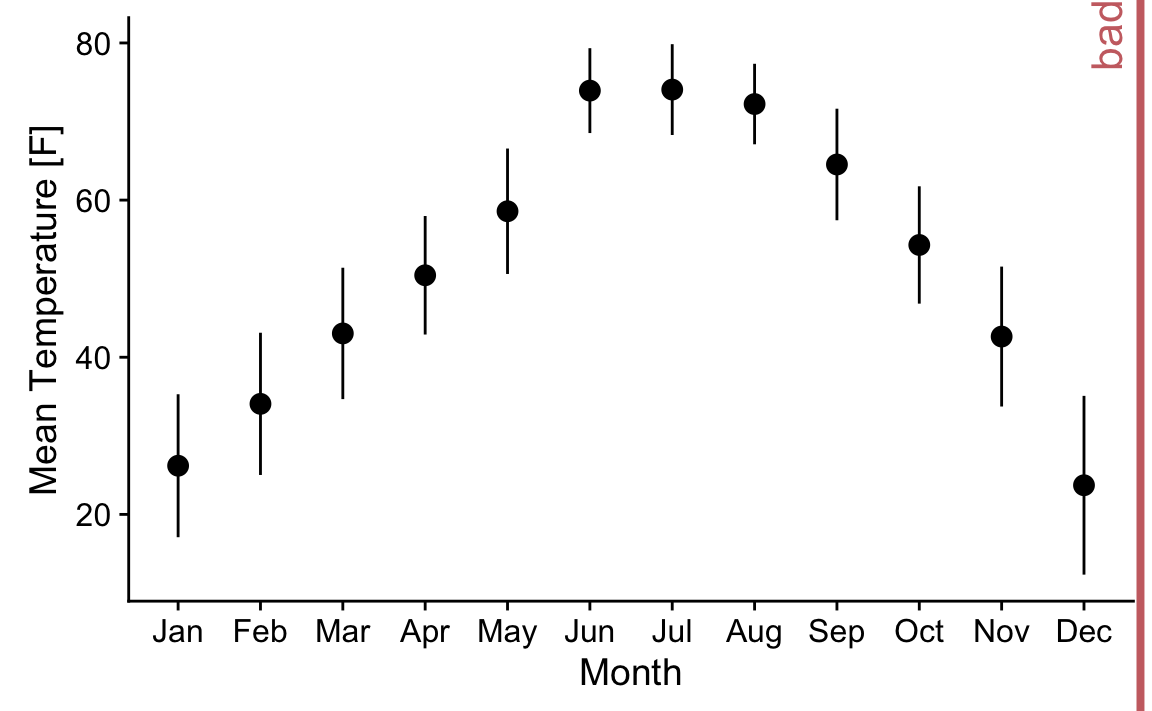
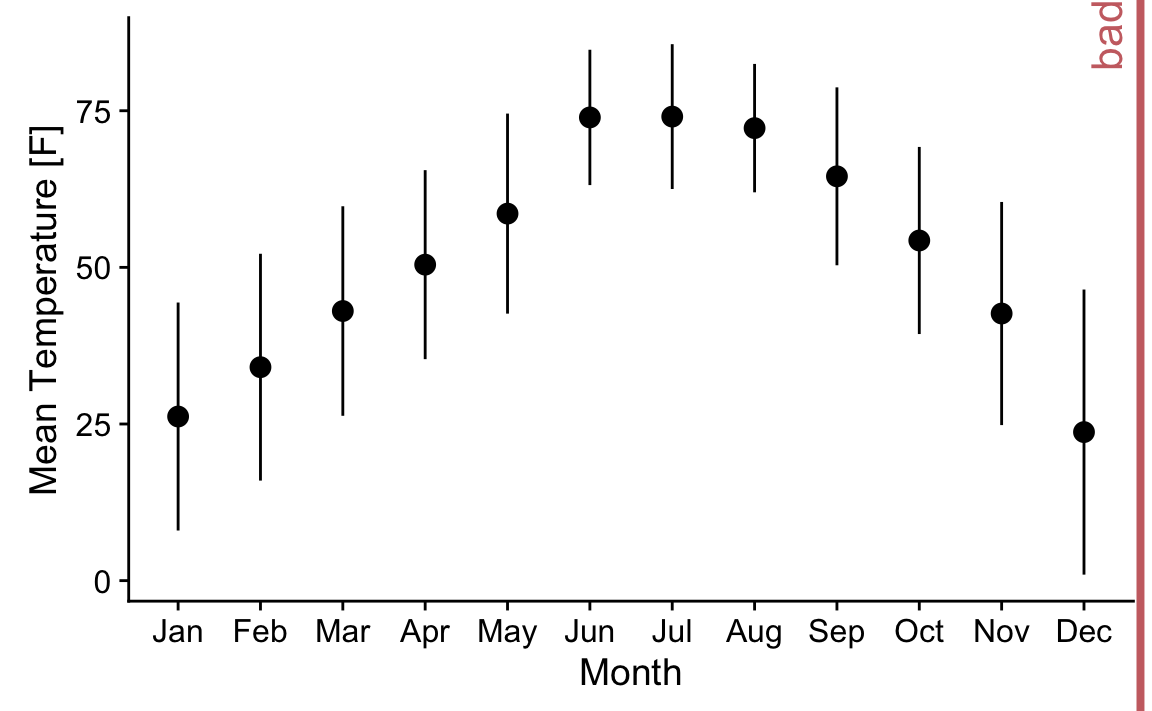
more figures

diff --git a/docs/boxplots-violin-plots-and-more.html b/docs/boxplots-violin-plots-and-more.html
@@ -98,9 +98,11 @@
 <div id="boxplots-violin-plots-and-more" class="section level1">
 <h1><span class="header-section-number">7</span> Boxplots, violin plots, and more</h1>
 <p><img src="boxplots_violins_files/figure-html/points-errorbars-1.png" width="576" style="display: block; margin: auto;" /></p>
-<p>There are multiple problems with points plus errorbars. First, we’re losing a lot of information about the data. Second, it’s not necessarily clear what the points represent. Third, and most importantly, it’s definitely not clear what the errorbars represent. There is no standard.</p>
+<p>There are multiple problems with points plus errorbars. First, we’re losing a lot of information about the data. Second, it’s not necessarily clear what the points represent. Third, it’s definitely not clear what the errorbars represent. There is no standard. Fourth, symmetric error bars are misleading if there is any skew in the data, which is the case here and almost always for real-world datasets.</p>
 <p><img src="boxplots_violins_files/figure-html/boxplots-1.png" width="576" style="display: block; margin: auto;" /></p>
 <p><img src="boxplots_violins_files/figure-html/violin-plots-1.png" width="576" style="display: block; margin: auto;" /></p>
+<p><img src="boxplots_violins_files/figure-html/jittered-points-1.png" width="576" style="display: block; margin: auto;" /></p>
+<p><img src="boxplots_violins_files/figure-html/sina-plots-1.png" width="576" style="display: block; margin: auto;" /></p>
 
 </div>
             </section>

diff --git a/docs/boxplots_violins.md b/docs/boxplots_violins.md
@@ -5,9 +5,13 @@
 
 <img src="boxplots_violins_files/figure-html/points-errorbars-1.png" width="576" style="display: block; margin: auto;" />
 
-There are multiple problems with points plus errorbars. First, we're losing a lot of information about the data. Second, it's not necessarily clear what the points represent. Third, and most importantly, it's definitely not clear what the errorbars represent. There is no standard.
+There are multiple problems with points plus errorbars. First, we're losing a lot of information about the data. Second, it's not necessarily clear what the points represent. Third, it's definitely not clear what the errorbars represent. There is no standard. Fourth, symmetric error bars are misleading if there is any skew in the data, which is the case here and almost always for real-world datasets.
 
 
 <img src="boxplots_violins_files/figure-html/boxplots-1.png" width="576" style="display: block; margin: auto;" />
 
 <img src="boxplots_violins_files/figure-html/violin-plots-1.png" width="576" style="display: block; margin: auto;" />
+
+<img src="boxplots_violins_files/figure-html/jittered-points-1.png" width="576" style="display: block; margin: auto;" />
+
+<img src="boxplots_violins_files/figure-html/sina-plots-1.png" width="576" style="display: block; margin: auto;" />
